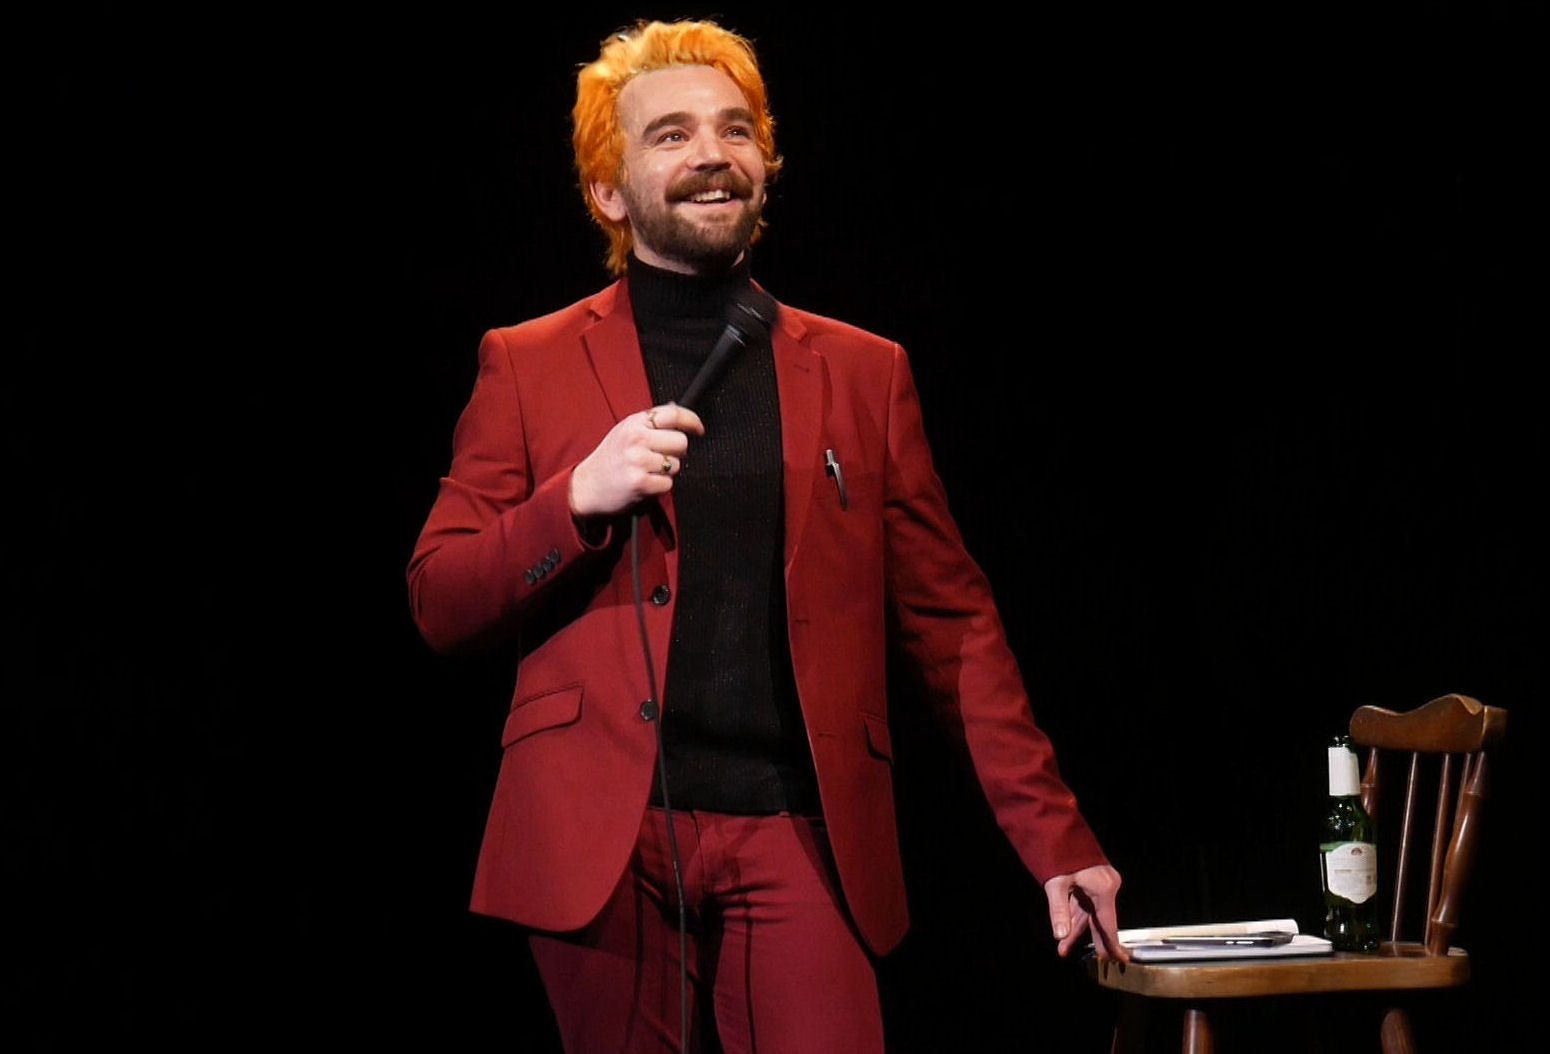
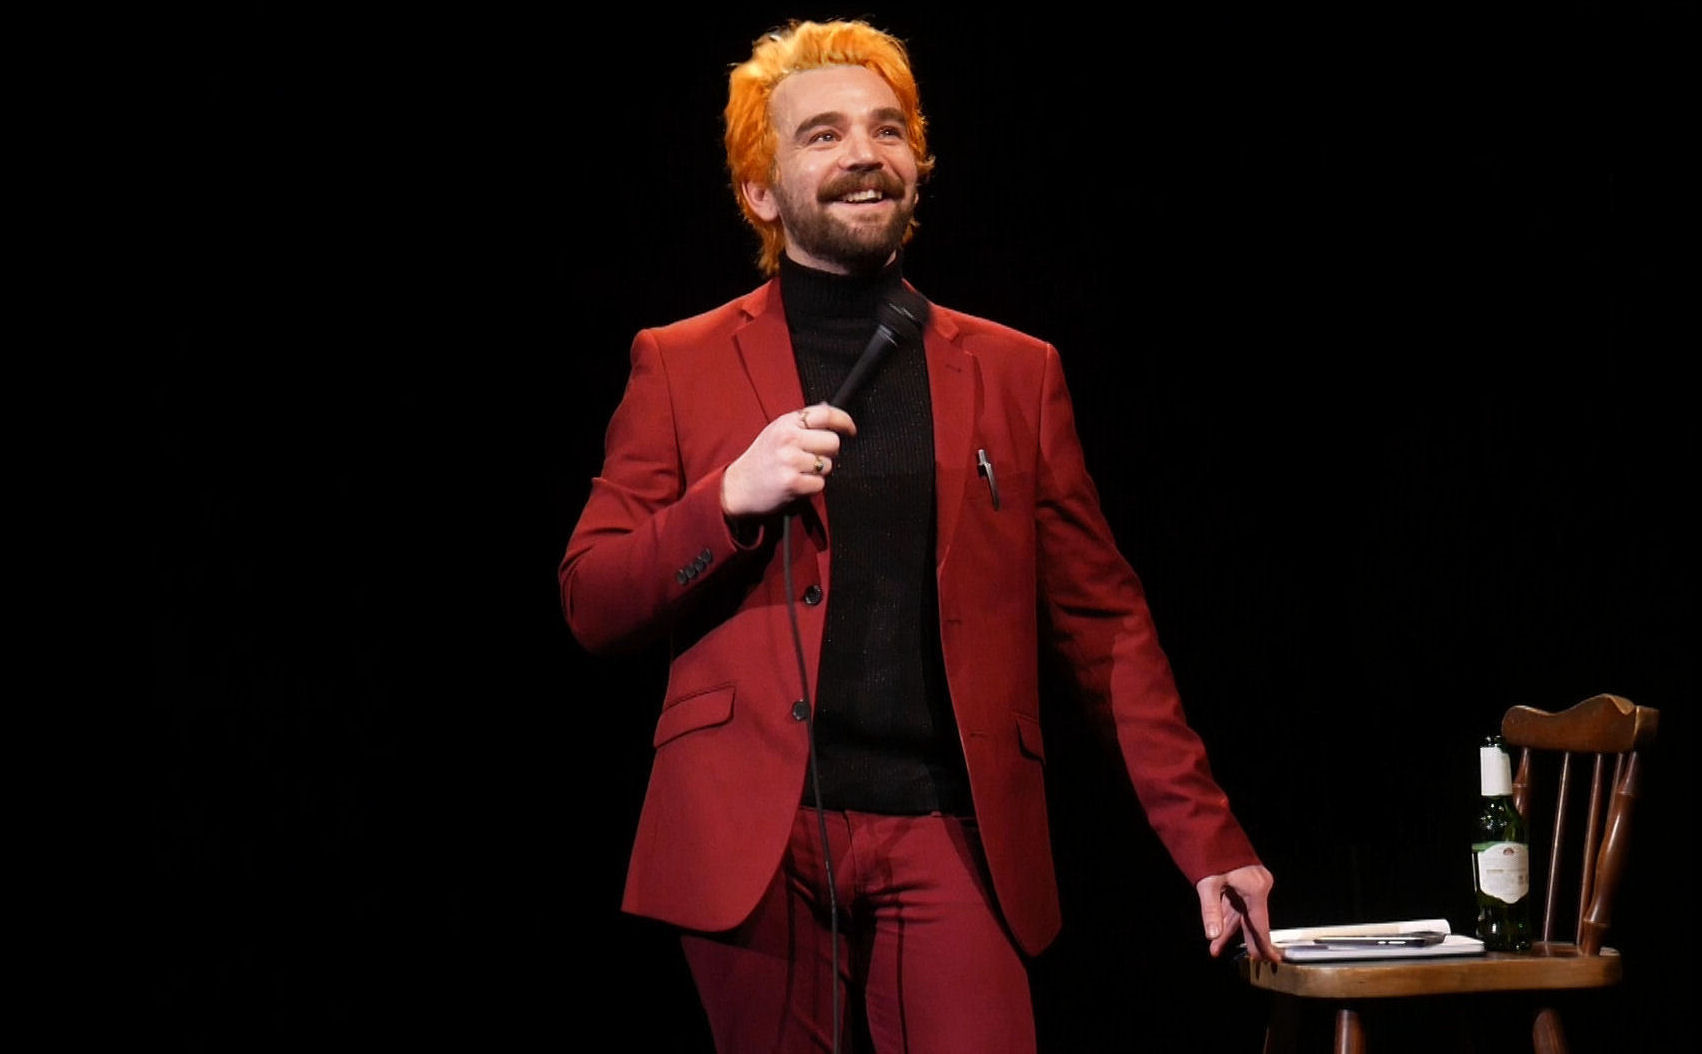
updated personal page

Changed region(s): [[0.2477, 0.0, 0.991, 1.0], [0.8671, 0.9412, 0.929, 1.0]]

diff --git a/www/reuben.html b/www/reuben.html
@@ -1,161 +1,176 @@
+<!DOCTYPE html>
 <html lang="en">
 <head>
   <meta charset="UTF-8">
   <meta name="viewport" content="width=device-width, initial-scale=1.0">
   <meta http-equiv="X-UA-Compatible" content="ie=edge">
-  <!-- font awesome -->
+
   <link rel="stylesheet" href="https://use.fontawesome.com/releases/v5.0.13/css/all.css" integrity="sha384-DNOHZ68U8hZfKXOrtjWvjxusGo9WQnrNx2sqG0tfsghAvtVlRW3tvkXWZh58N9jp" crossorigin="anonymous">
-  <!--Import Google Icon Font-->
   <link href="https://fonts.googleapis.com/icon?family=Material+Icons" rel="stylesheet">
-  <!-- Compiled and minified CSS -->
   <link rel="stylesheet" href="https://cdnjs.cloudflare.com/ajax/libs/materialize/1.0.0-beta/css/materialize.min.css">
   
-  <link rel="apple-touch-icon" sizes="180x180" href="favicon/apple-touch-icon.png">
-  <link rel="icon" type="image/png" sizes="32x32" href="favicon/favicon-32x32.png">
-  <link rel="icon" type="image/png" sizes="16x16" href="favicon/favicon-16x16.png">
-  <link rel="manifest" href="favicon/site.webmanifest">
   <link rel="stylesheet" href="style/main.css">
+
+  <title>Reuben Crisp</title>
   <style>
-    #header-image {
+    #hero-image {
       background-image: url("img/header.jpg");
       background-color: black;
       background-position: center top;
       background-attachment: fixed;
       background-position: top;
       background-repeat: no-repeat;
-      background-size: contain;
-      min-height: 100%;
+      background-size: cover;
+      min-height: 100vh;
+      height: 100vh;
     }
     @media screen and (max-width: 992px) {
-      #header-image {
-        min-height: 50%;
+      #hero-image {
+        min-height: 260px;
+        height: 260px;
         background-attachment: scroll;
         background-image: url("img/header-trimmed.jpg");
       }
     }
     @media screen and (max-width: 600px) {
-      #header-image {
-        min-height: 210px;
+      #hero-image {
+        min-height: 180px;
+        height: 180px;
         background-size: cover;
         background-attachment: scroll;
       }
     }
   </style>
-  <title>Dunedin Comedy - Reuben Crisp</title>
+
   
 </head>
 <body>
 
-  <!-- navbar -->
   <header>
-    <nav class="nav-wrapper red darken-4">
-      <div class="container">
+    <div class="navbar-fixed">
+      <nav>
+        <div class="nav-wrapper red darken-4">
+          <div class="container">
+            
+            <!-- MOBILE MENU BUTTON -->
+            <a href="#" data-target="side-menu" class="brand-logo truncate sidenav-trigger show-on-large">Reuben Crisp</a>
+            <a href="" class="sidenav-trigger" data-target="side-menu" data-position="right" data-tooltip="Menu">
+              <i class="material-icons">menu</i>
+            </a>
 
-        <!-- desktop nav -->
-        <a href="#" data-target="side-menu" class="brand-logo truncate sidenav-trigger show-on-large">Reuben Crisp</a>
-        <ul class="right hide-on-med-and-down">
-          <li><a href="#performer-anchor" class="">Comedian</a></li>
-          <li><a href="#producer-anchor" class="">Producer</a></li>
-          <li><a href="#contact-anchor" class="">Contact</a></li>
-          <li>
-            <a href="http://www.instagram.com/reuben_crisp" class="btn-floating btn-small black tooltipped" data-tooltip="Instagram">
-              <i class="fab fa-instagram"></i>
-            </a>
-          </li>
-          <li>
-            <a href="http://www.facebook.com/phyterjet" class="btn-floating btn-small black tooltipped" data-tooltip="Facebook">
-              <i class="fab fa-facebook"></i>
-            </a>
-          </li>
-          <li>
-            <a href="#contact-anchor" class="btn-floating btn-small black tooltipped" data-tooltip="Me">
-              <i class="fab material-icons">person</i>
-            </a>
-          </li>
-        </ul>
+            <!-- DESKTOP SOCIAL MEDIA -->
+            <ul class="right hide-on-med-and-down">
+              <li>
+                <a href="http://www.facebook.com/phyterjet" class="btn-floating btn-small white tooltipped z-depth-0" data-tooltip="Facebook">
+                  <i class="red-text text-darken-3 fab fa-facebook-f"></i>
+                </a>
+              </li>
+              <li>
+                <a href="http://www.instagram.com/reuben_crisp" class="btn-floating btn-small white tooltipped z-depth-0" data-tooltip="Instagram">
+                  <i class="red-text text-darken-3 fab fa-instagram"></i>
+                </a>
+              </li>
+              <li>
+                <a href="#contact-anchor" class="btn-floating btn-small white tooltipped z-depth-0" data-tooltip="Email">
+                  <i class="red-text text-darken-3 fas material-icons">mail_outline</i>
+                </a>
+              </li>
+            </ul>
 
-        <!-- side menu -->
-        <a href="" class="sidenav-trigger" data-target="side-menu" data-position="right" data-tooltip="Menu">
-          <i class="material-icons">menu</i>
-        </a>
-        <ul id="side-menu" class="sidenav">
-          <li>
-            <div class="user-view">
-              <div class="background">
-                <img class="responsive-img" src="img/bricks.jpg">
-              </div>
-              <a href="#" class="large right sidenav-close"><i class="material-icons">close</i></a>              
-              <a href="#user"><img class="circle z-depth-2" src="img/reuben-photos/moustache-profile.png"></a>
-              <a href="#name"><span class="white-text name">Reuben Crisp</span></a>
-              <a href="#email"><span class="white-text email">reubencrimp@gmail.com</span></a>
-            </div>
-          </li>
-          <li><a href="#performer-anchor" class="sidenav-close">Performances</a></li>
-          <li><a href="#producer-anchor" class="sidenav-close">Productions</a></li>
-          <li><a href="#contact-anchor" class="sidenav-close">Contact</a></li>
-          <li><a href="#contact-anchor" class="sidenav-close">Me</a></li>
-          <li><div class="divider"></div></li>
-          <li><a href="http://www.facebook.com/phyterjet"><i class="fab fa-facebook"></i>Facebook</a></li>
-          <li><a href="http://www.instagram.com/reuben_crisp"><i class="fab fa-instagram"></i>Instagram</a></li>
-          <li><a href="#contact-anchor" class="sidenav-close"><i class="sidenav-close material-icons">email</i>Email</a></li>
-        </ul>
+            <!-- DESKTOP NAVIGATION -->
+            <ul class="right hide-on-med-and-down">
+              <li><a href="#performer-anchor" class="">Comedian</a></li>
+              <li><a href="#producer-anchor" class="">Producer</a></li>
+              <li><a href="#contact-anchor" class="">Contact</a></li>
+              <!-- <li><a href="#comedian-anchor" class="">Comedians</a></li> -->
+            </ul>
+
+          </div> <!-- container -->
+        </div> <!-- nav-wrapper -->
+      </nav>
+    </div>  <!-- nav-fixed -->
+
+    <!-- MOBILE NAVIGATION -->
+    <ul id="side-menu" class="sidenav">
+      <li>
+        <div class="user-view">
+          <div class="background">
+            <img class="responsive-img" src="img/bricks.jpg">
+          </div>
+          <!-- <a href="#" class="large right sidenav-close"><i class="material-icons">close</i></a> -->
+          <a href="#" class="white-text large right sidenav-close"><i class="material-icons">close</i></a>              
+          <a href="#user"><img class="circle z-depth-2" src="img/reuben-photos/moustache-profile.png"></a>
+          <a href="#"><span class="white-text name">Reuben Crisp</span></a>
+          <!-- <a href="#"><span class="white-text name">Dunedin Comedy</span></a> -->
+          <a href="mailto:reuben@dunedincomedy.co.nz"><span class="white-text email">reuben@dunedincomedy.co.nz</span></a>
+        </div>
+      </li>
+      <li><a href="#performer-anchor" class="sidenav-close">Performances</a></li>
+      <li><a href="#producer-anchor" class="sidenav-close">Productions</a></li>
+      <li><a href="#contact-anchor" class="sidenav-close">Contact</a></li>
+      <li><a href="#contact-anchor" class="sidenav-close">Me</a></li>
+      <li><div class="divider"></div></li>
+      <li><a href="http://www.facebook.com/phyterjet"><i class="fab fa-facebook-f"></i>Facebook</a></li>
+      <li><a href="http://www.instagram.com/reuben_crisp"><i class="fab fa-instagram"></i>Instagram</a></li>
+      <li><a href="#contact-anchor" class="sidenav-close"><i class="fas fa-envelope"></i>Email</a></li>
+    </ul>
+
+  
+    <div id="hero-image" class="shadow-inset">
+      <div class="container row">
+        <!-- mobile buttons -->
+        <div class="right hide-on-med-and-up">
+          <ul id="mobile-social-buttons">
+            <li>
+              <a href="http://www.facebook.com/phyterjet" class="btn-small btn-floating red darken-4 tooltipped" data-position="left" data-tooltip="Facebook">
+                <i class="fab fa-facebook-f"></i>
+              </a>
+            </li>
+            <li>
+              <a href="http://www.instagram.com/reuben_crisp" class="btn-small btn-floating red darken-4 tooltipped " data-position="left" data-tooltip="Instagram">
+                <i class="fab fa-instagram"></i>
+              </a>
+            </li>
+            <li>
+              <a href="#contact-anchor" class="btn-small btn-floating red darken-4 tooltipped" data-position="left" data-tooltip="Email">
+                <i class="fab material-icons">mail_outline</i>
+              </a>
+            </li>
+          </ul>
+        </div>
+
+        <!-- MED BUTTONS -->
+        <div class="right hide-on-small-only hide-on-large-only">
+          <ul id="mobile-social-buttons">
+            <li>
+              <a href="http://www.facebook.com/phyterjet" class="btn-large btn-floating red darken-4 tooltipped" data-position="left" data-tooltip="Facebook">
+                <i class="fab fa-facebook-f"></i>
+              </a>
+            </li>
+            <li>
+              <a href="http://www.instagram.com/reuben_crisp" class="btn-large btn-floating red darken-4 tooltipped " data-position="left" data-tooltip="Instagram">
+                <i class="fab fa-instagram"></i>
+              </a>
+            </li>
+            <li>
+              <a href="#contact-anchor" class="btn-large btn-floating red darken-4 tooltipped" data-position="left" data-tooltip="Email">
+                <i class="fab material-icons">mail_outline</i>
+              </a>
+            </li>
+          </ul>
+        </div>
+
       </div>
-    </nav>
-  </header>
-
-  <!-- hero image -->
-  <div id="header-image">
-    <!-- mobile menu -->
-    <div class="container hide-on-large-only">
-      <ul id="mobile-social-buttons" class="left">
-        <li>
-          <a href="#performer-anchor" class="btn-floating red darken-4 tooltipped "
-          data-position="right" data-tooltip="Profile">
-            <i class="material-icons">person</i>
-          </a>
-        </li>
-        <li>
-          <a href="#contact-anchor" class="btn-floating red darken-4 tooltipped" data-position="right" data-tooltip="Contact">
-            <i class="material-icons">mail</i>
-          </a>
-        </li>
-        <li>
-          <a href="#producer-anchor" class="btn-floating red darken-4 tooltipped" data-position="right" data-tooltip="Portfolio">
-            <i class="material-icons">apps</i>
-          </a>
-        </li>
-      </ul>
     </div>
-  </div>
+  
+  </header>
 
   <!-- performer -->
   <section id="performer-anchor" class="container section scrollspy">
-    
     <div class="row">
-      
-      <!-- title -->
       <div class="col s12 m7 l7">
         <h2  class="left red-text text-darken-2 scrollspy">Comedian</h2>
       </div>
-      <!-- show button -->
-      <div class="col s12 m5 l5">
-        <h2 class="hide-on-small-only"><a class='dropdown-trigger btn-large red darken-2' href='#' data-target='dropdown1'>
-          <i class="material-icons right white-text">expand_more</i>Upcoming shows
-        </a></h2>
-        <ul id='dropdown1' class='dropdown-content'>
-          <li>
-            <a class="white-text red darken-2" href="#!">
-              Calendar
-              <i class="material-icons white-text right">event</i>
-            </a>
-          </li>
-          <li class="divider" tabindex="-1"></li>
-          <li><a class="red-text text-darken-3" href="#!">Facebook</a></li>
-          <li><a class="red-text text-darken-3" href="#!">Eventfinda</a></li>
-          <li><a class="red-text text-darken-3" href="#!">Trybooking</a></li>
-        </ul>
-      </div>
-
     </div>
 
     <div class="row">
